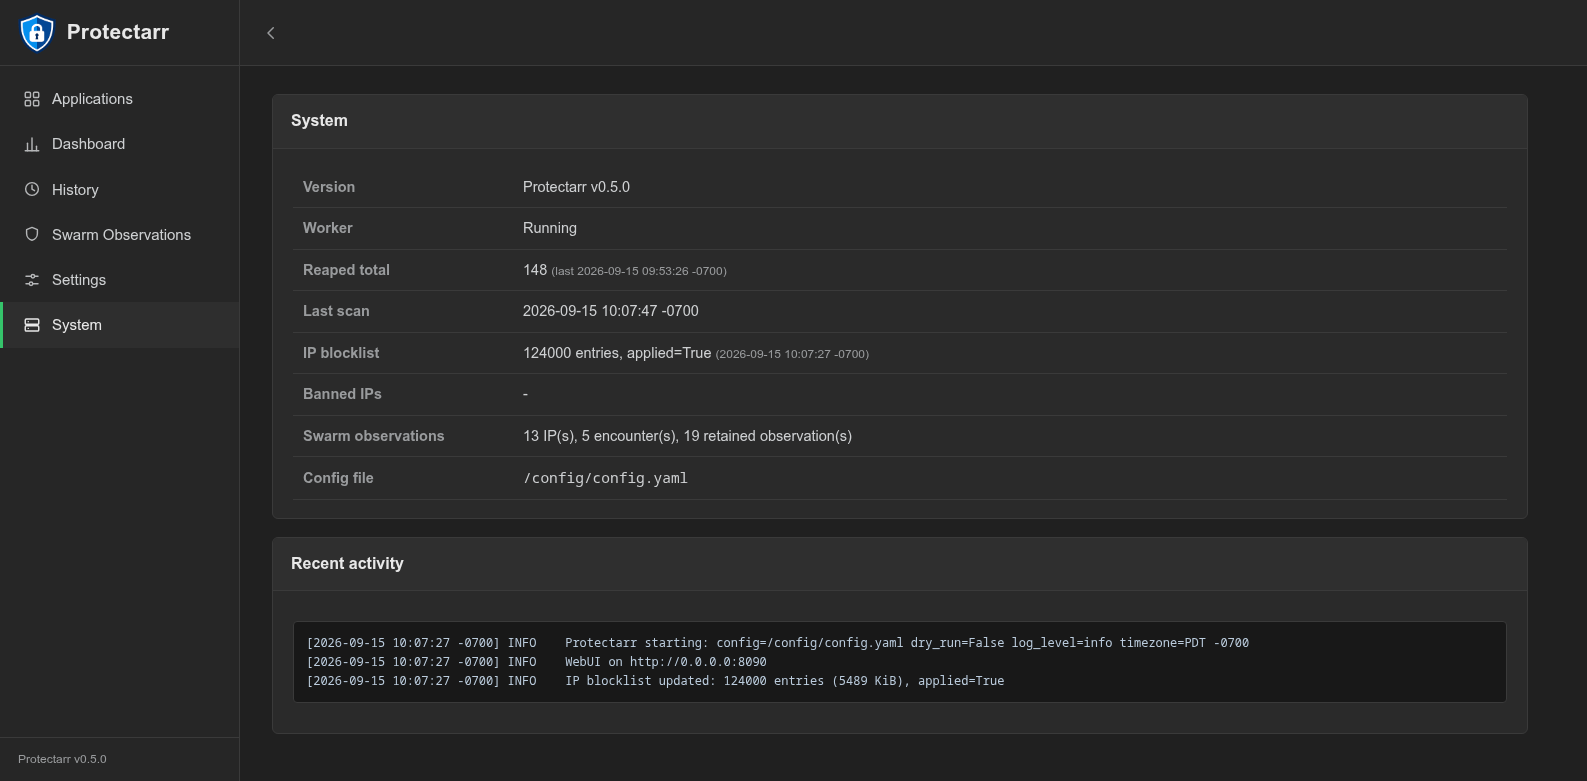
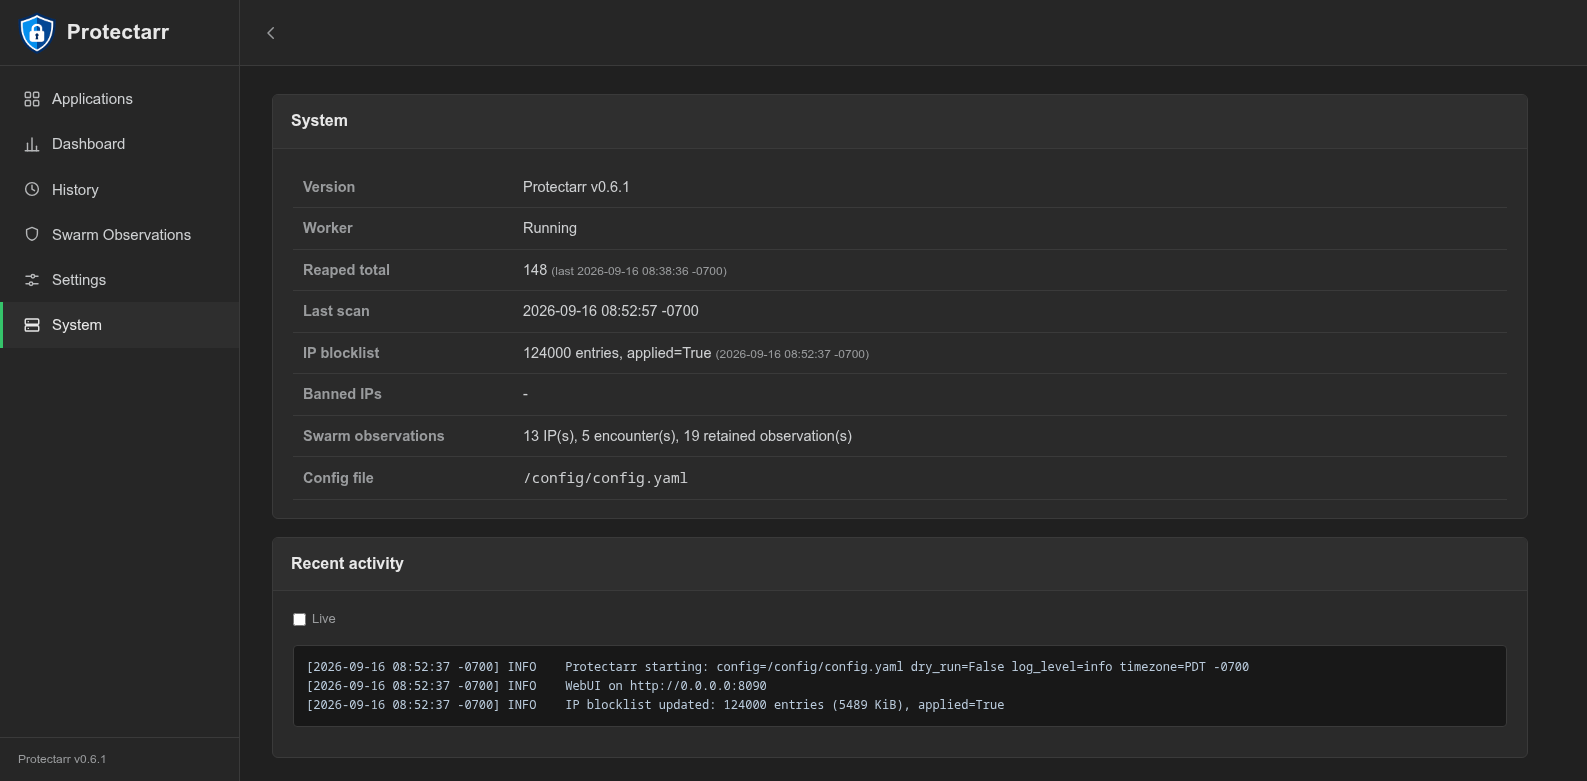
Release 0.6.1
Mobile usability. History becomes stacked records below 1000px instead of a
seven-column table with four of its columns off the right edge, and the wrapped
mobile navigation clears the fixed header on every page instead of sitting 66px
underneath it.

No backend semantics changed: no new endpoint, no change to event folding,
remediation, History filtering or aggregation, and no change to what any API
returns. The desktop History table is unchanged, including its row heights.

Six screenshots are re-shot because they still showed v0.5.0. The capture
script ran the published image from the registry rather than the tree being
released, so the version in the sidebar came from whatever had last been
published and 0.6.0 did not correct it. It now builds the image from the
working tree. system.png also picks up the Live log-follow control that 0.5.1
added and the old capture predated. dashboard.png is untouched: it carries no
version footer and is captured at a taller crop by a different script.

Changed region(s): [[0.1853, 0.7682, 0.8028, 0.9219], [0.3705, 0.3688, 0.4014, 0.3995]]

diff --git a/protectarr/__init__.py b/protectarr/__init__.py
@@ -7,4 +7,4 @@
 # behaviour. `latest` is a convenience, not an identifier: v0.1.0 shipped for
 # months across substantial changes, so a bug report naming it said nothing
 # about which build the reporter was actually running.
-__version__ = "0.6.0"
+__version__ = "0.6.1"

diff --git a/README.md b/README.md
@@ -617,13 +617,13 @@ they were actually running.
 Available image tags:
 
 ```
-ghcr.io/irnutsmurt/protectarr:0.6.0    # exact release, never moves
+ghcr.io/irnutsmurt/protectarr:0.6.1    # exact release, never moves
 ghcr.io/irnutsmurt/protectarr:0.6      # newest patch of that minor line
 ghcr.io/irnutsmurt/protectarr:latest   # newest master build
 ghcr.io/irnutsmurt/protectarr:master   # same thing, named explicitly
 ```
 
-Pin to `0.6.0` or `0.6` if you want to know what you are running. Use `latest`
+Pin to `0.6.1` or `0.6` if you want to know what you are running. Use `latest`
 if you would rather track master and do not mind it moving under you.
 
 The version Protectarr reports comes from one place, `protectarr/__init__.py`.
